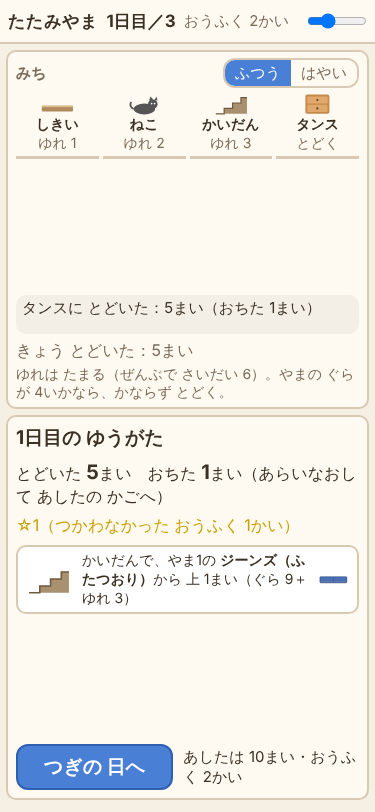
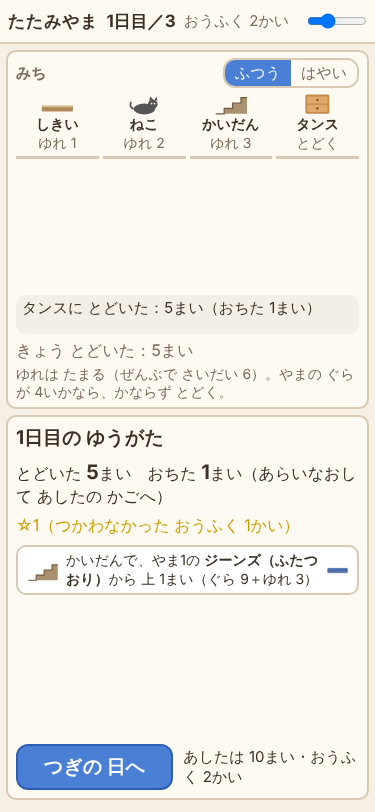
画面の直し（運ぶ人の位置・スマホの数字の省略・かごの内側スクロール）、README
Claude-Session: https://claude.ai/code/session_01MmzYoT4B9Fx3f1cD3sztui

Changed region(s): [[0.0293, 0.6773, 0.968, 0.7697]]

diff --git a/index.html b/index.html
@@ -34,14 +34,15 @@
   #main { display: grid; grid-template-columns: 250px minmax(0, 1fr) 340px; gap: 10px; padding: 10px; min-height: 0; min-width: 0; }
   .col { min-height: 0; min-width: 0; display: flex; flex-direction: column; gap: 8px; }
   .box { background: var(--panel); border: 2px solid var(--line); border-radius: 14px; padding: 10px; position: relative; }
-  .box h2 { margin: 0 0 6px; font-size: 17px; font-weight: 700; color: var(--sub); display: flex; align-items: center; gap: 8px; }
+  .box h2 { margin: 0 0 6px; font-size: 17px; font-weight: 700; color: var(--sub); display: flex; align-items: center; gap: 6px 8px; flex-wrap: wrap; }
+  .box h2 > * { white-space: nowrap; }
   .guide { display: inline-block; background: var(--accent); color: #fff; font-size: 15px; padding: 1px 10px; border-radius: 10px; }
 
   /* ---------- かご ---------- */
   #basketBox { flex: 1; min-height: 0; display: flex; flex-direction: column; }
-  #basket { display: grid; grid-template-columns: repeat(auto-fill, minmax(70px, 1fr)); gap: 6px; align-content: start; overflow: hidden; }
+  #basket { display: grid; grid-template-columns: repeat(auto-fill, minmax(70px, 1fr)); gap: 6px; align-content: start; overflow-y: auto; min-height: 0; }
   .bitem { border: 2px solid var(--line); border-radius: 10px; background: #fff; padding: 4px 2px 2px; text-align: center; cursor: pointer; position: relative; }
-  .bitem svg { width: 100%; height: 36px; }
+  .bitem svg { width: 100%; height: 30px; }
   .bitem .nm { font-size: 14px; line-height: 1.2; }
   .bitem.sel { border-color: var(--accent); box-shadow: 0 0 0 3px #4a7fd655; }
   .bitem.folded { background: #f0f6ff; }
@@ -61,7 +62,7 @@
   /* ---------- 山 ---------- */
   #stacksBox { flex: 1; min-height: 0; display: flex; flex-direction: column; }
   #stackUI { flex: 1; min-height: 0; display: flex; flex-direction: column; gap: 8px; }
-  #stacks { flex: 1; min-height: 0; display: grid; grid-auto-flow: column; grid-auto-columns: 1fr; gap: 12px; align-items: stretch; }
+  #stacks { flex: 1; min-height: 0; display: grid; grid-auto-flow: column; grid-auto-columns: minmax(0, 1fr); gap: 12px; align-items: stretch; }
   .slot { display: flex; flex-direction: column; align-items: center; border: 2px dashed var(--line); border-radius: 14px; padding: 6px 6px 4px; cursor: pointer; min-height: 0; position: relative; }
   .slot.can { border-color: var(--accent); background: #f3f8ff; }
   .slot.away { opacity: .35; }
@@ -70,6 +71,7 @@
   .stackbox svg { position: absolute; left: 0; top: 0; width: 100%; height: 100%; }
   .gnum { position: absolute; left: 0; top: 0; transform: translate(-50%, -50%); min-width: 1.5em; height: 1.35em; line-height: 1.2em; text-align: center; font-weight: 700; font-size: clamp(14px, 1.3vw, 20px); border-radius: 1em; background: #fff; border: 2px solid var(--line); padding: 0 .25em; white-space: nowrap; }
   .gnum.z { color: var(--safe); border-color: var(--safe); }
+  .gnum.gdot { min-width: 0; width: 12px; height: 12px; padding: 0; border-color: var(--safe); background: var(--safe); font-size: 0; }
   .gnum.chg { background: var(--glow); border-color: #c9a000; }
   .gnum.chg.up { background: #ffd0cc; border-color: var(--bad); }
   .layer.fx-give rect, .layer.fx-give ellipse, .layer.fx-give circle, .layer.fx-give path { filter: drop-shadow(0 0 4px #ffb300); }
@@ -102,7 +104,7 @@
 
   /* ---------- 道（運ぶ） ---------- */
   #roadBox { flex: 1; min-height: 0; display: flex; flex-direction: column; }
-  #road { position: relative; flex: 1; min-height: 0; }
+  #road { position: relative; flex: 1; min-height: 0; overflow: hidden; }
   .stations { display: grid; grid-template-columns: repeat(4, 1fr); gap: 4px; }
   .st { text-align: center; font-size: 15px; color: var(--sub); border-bottom: 3px solid var(--line); padding-bottom: 3px; }
   .st svg { width: 100%; height: 40px; }
@@ -129,9 +131,10 @@
   .bigline b { font-size: 26px; }
   #falls { flex: 1; min-height: 0; overflow: auto; display: flex; flex-direction: column; gap: 6px; }
   .fallrec { display: flex; align-items: center; gap: 10px; border: 2px solid var(--line); border-radius: 10px; padding: 4px 8px; font-size: 16px; background: #fff; }
-  .fallrec svg { height: 36px; width: 46px; flex: none; }
-  .fallrec .picks { display: flex; gap: 2px; }
-  .fallrec .picks svg { width: 30px; height: 30px; }
+  .fallrec > svg { height: 36px; width: 46px; flex: none; }
+  .fallrec .txt { flex: 1; min-width: 0; }
+  .fallrec .picks { display: flex; flex-wrap: wrap; gap: 2px; max-width: 40%; justify-content: flex-end; align-items: center; font-size: 15px; color: var(--sub); }
+  .fallrec .picks svg { width: 28px; height: 24px; }
   .overlay .btnrow { display: flex; gap: 10px; align-items: center; }
   .overlay .btnrow button { font-size: 19px; font-weight: 700; padding: 8px 26px; background: var(--accent); color: #fff; border-color: #2f5fb0; white-space: nowrap; }
   #endBig { font-size: 40px; font-weight: 700; margin: 6px 0; }
@@ -165,7 +168,8 @@
     body.sc-carry #colL, body.sc-evening #colL, body.sc-end #colL { display: none; }
     body.sc-stack #roadHint { display: block; }
     #main { grid-template-columns: minmax(0, 1fr); grid-template-rows: auto minmax(0, 1fr) auto; gap: 6px; padding: 6px; }
-    #colL { order: 3; }
+    #colL { order: 3; max-height: 36vh; }
+    #basketBox { flex: 1; min-height: 0; }
     #colM { order: 2; }
     #colR { order: 1; }
     .box { padding: 6px 8px; border-radius: 10px; }
@@ -189,6 +193,7 @@
     .fbtn .ft { font-size: 14px; min-height: 0; }
     #stacks { gap: 5px; }
     .bar .txt .lbl { display: none; }
+    .bar .txt .judge, .slot .sname { white-space: normal; text-align: center; }
     .slot { padding: 3px 3px 2px; }
     .slot .sname { font-size: 14px; }
     .gnum { font-size: 14px; min-width: 1.4em; height: 1.4em; line-height: 1.3em; }
@@ -198,7 +203,10 @@
     .overlay { padding: 8px; }
     .overlay h3 { font-size: 19px; }
     .bigline { font-size: 16px; } .bigline b { font-size: 20px; }
-    .fallrec { font-size: 14px; }
+    .fallrec { font-size: 14px; gap: 6px; }
+    .fallrec > svg { width: 34px; height: 28px; }
+    .fallrec .picks { max-width: 34%; }
+    .fallrec .picks svg { width: 22px; height: 20px; }
     #endBig { font-size: 30px; }
     #title h1 { font-size: 34px; }
   }

diff --git a/ui.js b/ui.js
@@ -187,13 +187,26 @@
     var minLayer = Math.min.apply(null, out.hs) * sc;
     var mode = minLayer >= numH + 1 ? 'one' : (minLayer * 2 >= numH + 1 && 28 * sc >= numW + 2 && offX + 132 * sc + numW / 2 <= W + 1 ? 'zig' : 'pitch');
     if (opts.onlyHot) mode = 'one';
+    var show = {}; for (var q = 0; q < n; q++) show[q] = true;
+    if (mode === 'pitch') {
+      // 等間隔に 置けるだけ 置く。足りなければ ぐら0 の段は 小さな緑の丸にして、数字は 0でない段（と いちばん上）に使う
+      var cap = Math.max(1, Math.floor((H - 4) / (numH + 1)));
+      var idx = []; for (var q2 = 0; q2 < n; q2++) idx.push(q2);
+      if (idx.length > cap) { idx = idx.filter(function (q3) { return calc.items[q3].gura > 0 || q3 === opts.hot || q3 === n - 1; }); }
+      if (idx.length > cap) idx = idx.slice(idx.length - cap);
+      show = {}; idx.forEach(function (q4) { show[q4] = true; });
+      var pos = {}; idx.forEach(function (q5, r) { pos[q5] = H - 2 - numH / 2 - r * (numH + 1); });
+    }
     for (var j = 0; j < n; j++) {
       var y = offY + out.ys[j] * sc, x = offX + 104 * sc;
       if (mode === 'zig' && (j % 2)) x = offX + 132 * sc;
-      if (mode === 'pitch') y = H - 2 - numH / 2 - j * (numH + 1);
+      if (mode === 'pitch') {
+        if (show[j]) y = pos[j];
+        else if (calc.items[j].gura === 0) { els[j].classList.add('gdot'); els[j].textContent = ''; els[j].setAttribute('aria-label', '0'); }
+        else els[j].classList.add('hidden');
+      }
       y = Math.max(numH / 2 + 1, Math.min(H - numH / 2 - 1, y));
       els[j].style.left = x + 'px'; els[j].style.top = y + 'px';
-      if (mode === 'pitch' && y <= numH / 2 + 1 && j < n - 1) els[j].classList.add('hidden');
     }
     box.setAttribute('data-nummode', mode);
     box.__geom = { offX: offX, offY: offY, sc: sc, numH: numH };
@@ -201,7 +214,7 @@
   function personSVG() { return '<circle cx="60" cy="12" r="9" fill="#f3c9a4" stroke="#8a5a3a" stroke-width="1.5"/><path d="M44 54 v-18 q0 -10 16 -10 q16 0 16 10 v18z" fill="#6aa9d9" stroke="#2f5f8a" stroke-width="1.5"/><path d="M44 36 l-10 -4 M76 36 l10 -4" stroke="#f3c9a4" stroke-width="5" stroke-linecap="round"/>'; }
   function titleArt() {
     var items = [{ kind: 'jeans', fold: 'jeans_half' }, { kind: 'towel', fold: 'towel_quad' }, { kind: 'tshirt', fold: 'tshirt_square' }, { kind: 'socks', fold: 'socks_ball' }];
-    var s = '', y = 150; items.forEach(function (it) { var sh = SHAPE[T.FOLD_BY_ID[it.fold].shape]; var h = sh.h * 2.2, w = sh.w * 1.9; s += pieceSVG(it.kind, it.fold, 110, y, w, h, { noDir: true, stroke: 2 }); y -= h; });
+    var s = '', y = 154; items.forEach(function (it) { var sh = SHAPE[T.FOLD_BY_ID[it.fold].shape]; var h = sh.h * 1.5, w = sh.w * 1.8; s += pieceSVG(it.kind, it.fold, 110, y, w, h, { noDir: true, stroke: 2 }); y -= h; });
     return s;
   }
 
@@ -382,7 +395,7 @@
     s += '<div class="st' + (now === 3 ? ' now' : '') + '"><svg viewBox="0 0 60 40">' + STATION_ART.tansu + '</svg><div class="sn">タンス</div><div>とどく</div></div>';
     $('stations').innerHTML = s;
   }
-  var LEFT = ['0%', '26%', '52%', '75%'];
+  var LEFT = ['0%', '20%', '40%', '60%']; // 運ぶ人の幅は 40%。はみ出さないように
   function renderCarrierStack(items, calc, hot) {
     var out = {}; var cs = $('carrierStack');
     cs.innerHTML = stackSVG(items, calc, out);
@@ -402,9 +415,10 @@
     var res = T.runDay(G.day, folds, G.rng); // 乱数は ここでだけ引く（山の順に 出来事×3）
     G.carrying = { res: res, done: [], delivered: 0 };
     var recs = [];
-    renderStacks(); $('carryBtn').disabled = true; $('carryNote').textContent = 'はこんでいる…';
+    $('carryBtn').disabled = true; $('carryNote').textContent = 'はこんでいる…';
     $('carryBar').classList.remove('hidden'); $('carrier').classList.remove('hidden');
     $('delivered').textContent = '';
+    renderStacks();
     var stackIdx = []; G.stacks.forEach(function (s, i) { if (s.length) stackIdx.push(i); });
     for (var k = 0; k < used.length; k++) {
       var si = stackIdx[k], items = used[k].slice(), r = res.results[k];
@@ -471,8 +485,9 @@
 
   // ---------- 夕方・次の日・おわり ----------
   function fallRecHTML(rec) {
-    var pics = rec.items.map(function (f) { return iconSVG(T.FOLD_BY_ID[f].kind, f); }).join('');
-    return '<div class="fallrec"><svg viewBox="0 0 60 40">' + STATION_ART[rec.event.id] + '</svg><div>' + rec.event.name + 'で、やま' + (rec.stack + 1) + 'の <b>' + esc(itemName(rec.fromFold)) + '</b>から 上 ' + rec.items.length + 'まい（ぐら ' + rec.total + '＋ゆれ ' + rec.acc + '）</div><div class="picks">' + pics + '</div></div>';
+    var shown = rec.items.slice(0, 6);
+    var pics = shown.map(function (f) { return iconSVG(T.FOLD_BY_ID[f].kind, f); }).join('') + (rec.items.length > 6 ? '<span>＋' + (rec.items.length - 6) + '</span>' : '');
+    return '<div class="fallrec"><svg viewBox="0 0 60 40">' + STATION_ART[rec.event.id] + '</svg><div class="txt">' + rec.event.name + 'で、やま' + (rec.stack + 1) + 'の <b>' + esc(itemName(rec.fromFold)) + '</b>から 上 ' + rec.items.length + 'まい（ぐら ' + rec.total + '＋ゆれ ' + rec.acc + '）</div><div class="picks">' + pics + '</div></div>';
   }
   function endDay(res, recs) {
     setScreen('evening');
@@ -581,6 +596,7 @@
         var b = els[j];
         if (!b.fixed && j < i) continue;
         if (a.el.contains(b.el) || b.el.contains(a.el)) continue;
+        if (a.el.closest('#carrierStack') && b.el.closest('#carrierStack')) continue; // 傾いている山の中の数字どうしは、回転で箱が重なるだけ（配置は同じ）
         var hit = null;
         for (var x = 0; x < a.rects.length && !hit; x++) for (var y = 0; y < b.rects.length && !hit; y++) {
           var ra = a.rects[x], rb = b.rects[y];

diff --git a/bot.js b/bot.js
@@ -178,7 +178,7 @@ function f2(x) { return (Math.round(x * 100) / 100).toFixed(2); }
     var kinds = T.basketOf(d), cells = [], detail = [];
     for (var k = 1; k <= 4; k++) {
       if (k > T.DAYS[d].trips) { cells.push('-'); continue; }
-      var r = searchCached(kinds, k, { wE: 'E', rng: T.makeRng(1000 + k), restarts: QUICK ? 6 : 16, iters: QUICK ? 1500 : 4000, tag: 'smart' });
+      var r = searchCached(kinds, k, { wE: 'E', rng: T.makeRng(1000 + k), restarts: QUICK ? 6 : 24, iters: QUICK ? 1500 : 10000, tag: 'table' });
       cells.push(f2(r.E) + '（ぐら ' + r.total + '）');
       detail.push({ k: k, r: r });
     }

diff --git a/tools/frames.js b/tools/frames.js
@@ -32,7 +32,7 @@ async function strip(browser, rec, clip, outFile, label) {
   var picks = [];
   for (var k = 0; k < 10; k++) {
     var want = rec.t0 + k * 50, best = null;
-    rec.frames.forEach(function (f) { if (f.t <= want + 25 && (!best || Math.abs(f.t - want) < Math.abs(best.t - want))) best = f; });
+    rec.frames.forEach(function (f) { if (f.t >= rec.t0 - 30 && (!best || Math.abs(f.t - want) < Math.abs(best.t - want))) best = f; });
     if (!best) best = rec.frames[rec.frames.length - 1];
     picks.push({ k: k, f: best, dt: best ? best.t - rec.t0 : null });
   }

diff --git a/README.md b/README.md
@@ -1,0 +1,16 @@
+# たたみやま（版1・最初の試作）
+
+洗濯物を1枚ずつ、たたみ方を選んで山に積む。積んだ山をタンスまで運ぶのは見守るだけ。3日間で かごを空にする。
+試作で確かめる問い：「たたみ方と積む順の噛み合い探しで、迷いと発見が出るか」
+
+- rules.js … ルール（画面なしで動く計算だけ。ブラウザと Node で共用。たたみ方の定義・山の計算・運ぶ計算のログ・seed つき乱数）
+- index.html / ui.js … 画面（表示と操作だけ。ビルドなし）
+- bot.js … ボット（でたらめ・ふつう・コツ2つ・かしこい、日ごとの表、にせの選択の検査）
+- tests.js … 札の文が文字どおりに動くかのテスト
+- tools/check.js … ヘッドレス Chrome で 自動プレイ（?auto=1）を4つの大きさで回し、画面と計算のずれ・文字の重なり・ページのスクロールを数える
+- tools/screens.js … スクリーンショット（screenshots/）
+- tools/frames.js … コマ送り画像（0.05秒ごとに10コマ）
+- REPORT.md … この版の報告
+
+動かす：`node tests.js`／`node bot.js [--runs 1000]`／`node serve.js` → http://localhost:8787/
+確認用の切り替え：`?auto=1`（自動で3日遊ぶ。必ず無音）`&bg=1`（タイマーで進める）`&speed=10&mute=1&seed=N&reset=1&runs=3`
